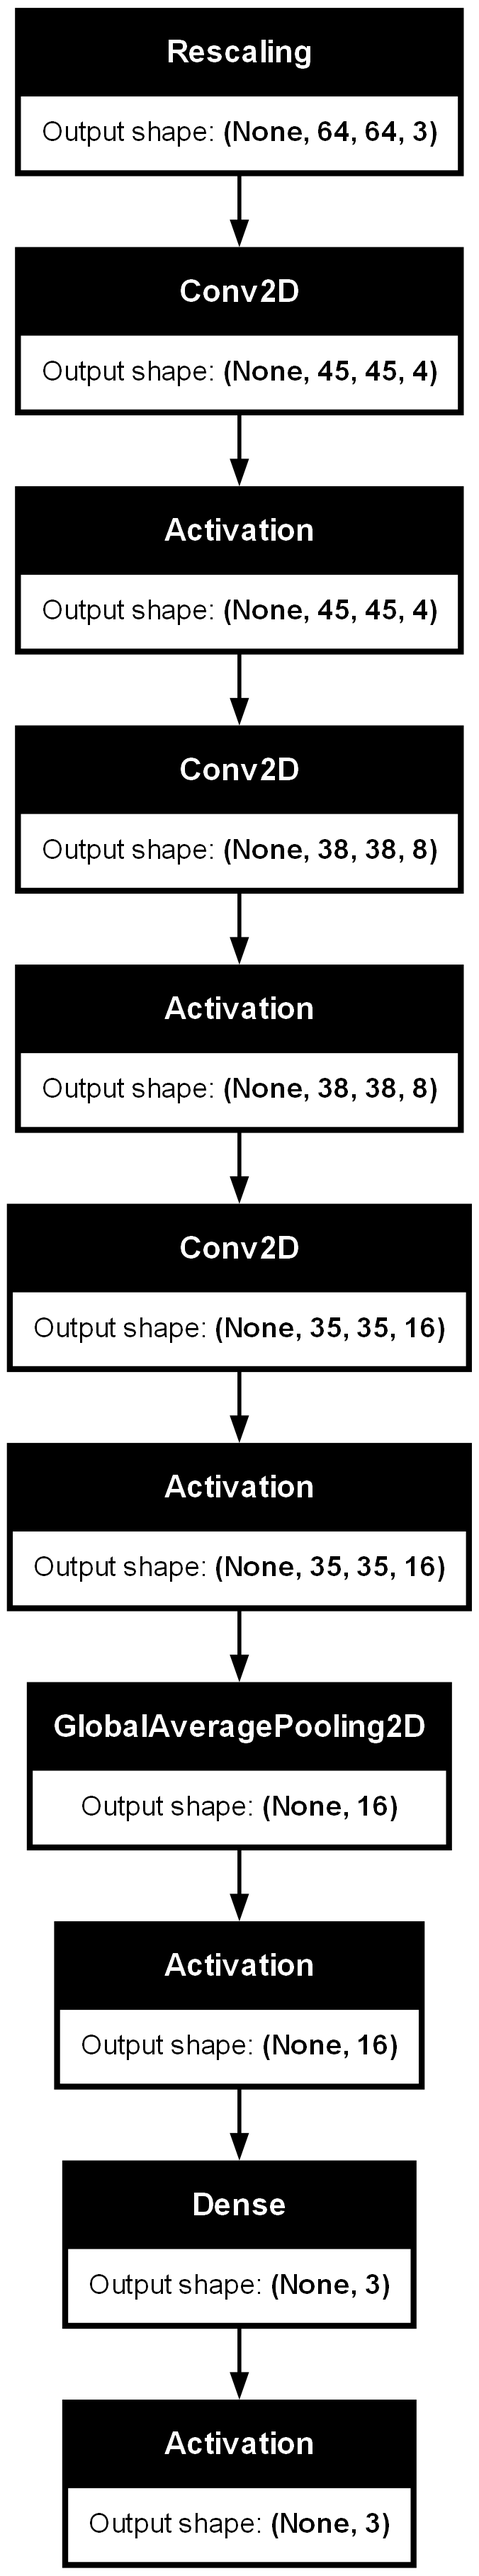
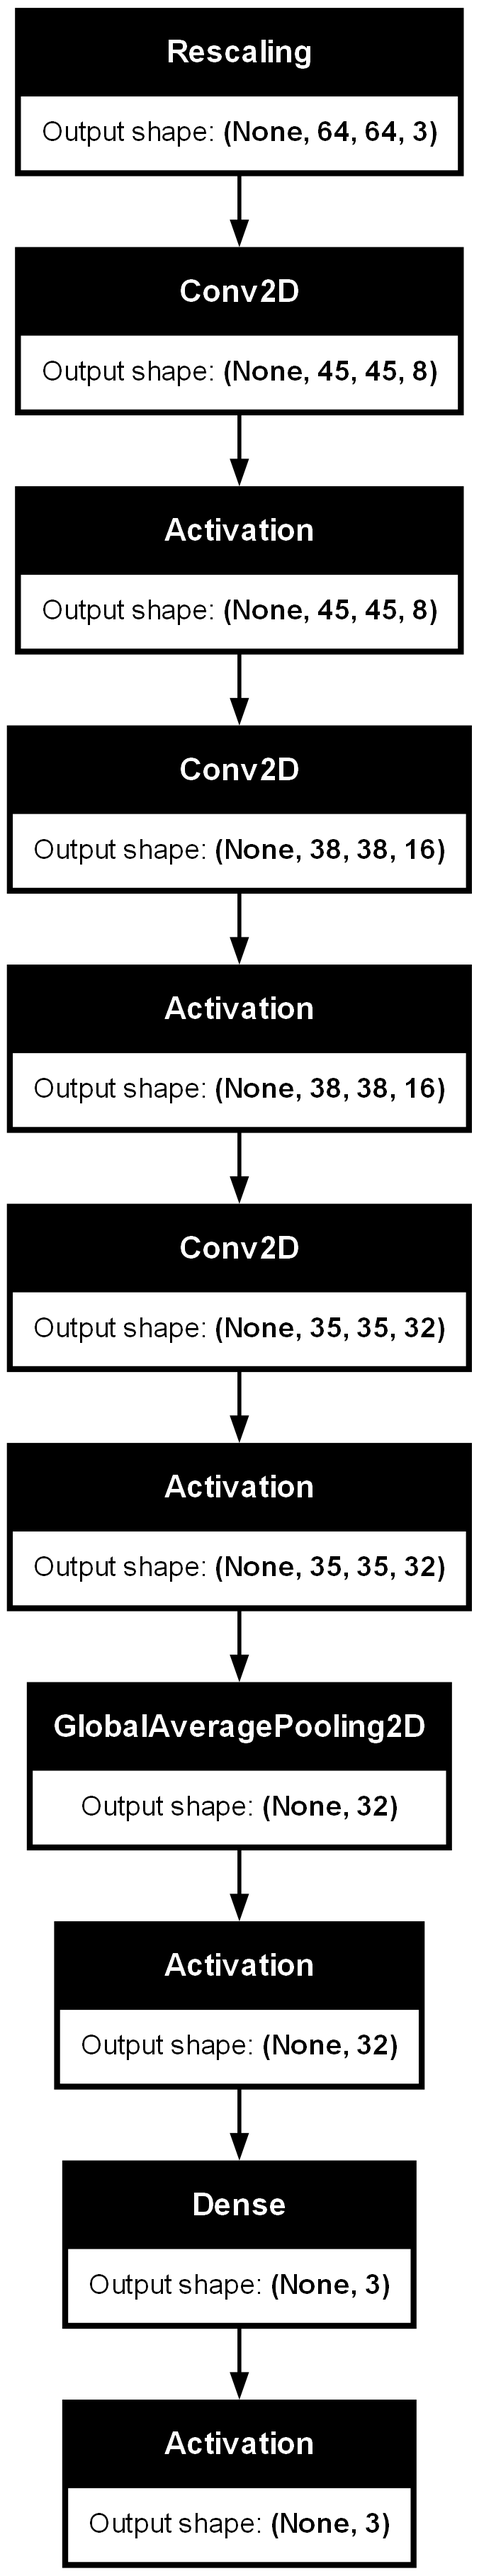
To continue

diff --git a/HairPrediction.py b/HairPrediction.py
@@ -48,6 +48,17 @@ val_ds = tf.keras.preprocessing.image_dataset_from_directory(
     label_mode='categorical'
 )
 
+test_ds = tf.keras.preprocessing.image_dataset_from_directory(
+    "hair_types/",
+    validation_split=0.2,
+    subset="validation",
+    seed=1337,
+    image_size=image_size,
+    batch_size=batch_size, 
+    labels='inferred',
+    label_mode='categorical'
+)
+
 
 print(train_ds.class_names)
 
@@ -62,17 +73,17 @@ model = Sequential()
 model.add(keras.Input(shape=image_size + (3,))) # 64, 64, 3
 model.add(layers.Rescaling(1.0 / 255))
 
-model.add(layers.Conv2D(filters=4, kernel_size=20, strides=1, padding='valid', dilation_rate=1))
+model.add(layers.Conv2D(filters=8, kernel_size=20, strides=1, padding='valid', dilation_rate=1))
 model.add(layers.Activation("relu"))
-# layers.MaxPool2D(pool_size=(2, 2))
+layers.MaxPool2D(pool_size=(2, 2))
 
-model.add(layers.Conv2D(filters=8, kernel_size=8, strides=1, padding='valid', dilation_rate=1))
+model.add(layers.Conv2D(filters=16, kernel_size=8, strides=1, padding='valid', dilation_rate=1))
 model.add(layers.Activation("relu"))
-# layers.MaxPool2D(pool_size=(2, 2))
+layers.MaxPool2D(pool_size=(2, 2))
 
-model.add(layers.Conv2D(filters=16, kernel_size=4, strides=1, padding='valid', dilation_rate=1))
+model.add(layers.Conv2D(filters=32, kernel_size=4, strides=1, padding='valid', dilation_rate=1))
 model.add(layers.Activation("relu"))
-# layers.MaxPool2D(pool_size=(2, 2))
+layers.MaxPool2D(pool_size=(2, 2))
 
 model.add(layers.GlobalAveragePooling2D())
 model.add(layers.Activation("relu"))
@@ -82,7 +93,8 @@ model.add(layers.Activation("softmax"))
 tf.keras.utils.plot_model(model, to_file='model_test.png', show_shapes=True)
 
 # epochs = 1
-epochs = 50
+# epochs = 50
+epochs = 25
 
 model.compile(
     optimizer=keras.optimizers.Adam(1e-3),
@@ -108,7 +120,7 @@ import numpy as np
 from sklearn.metrics import precision_score, recall_score, f1_score, accuracy_score
 
 # Make predictions on the validation data
-predictions = model.predict(val_ds)
+predictions = model.predict(test_ds)
 y_true = np.concatenate([y for x, y in val_ds], axis=0)
 
 # Convert one-hot encoded labels to integer labels

diff --git a/ForDocument.md b/ForDocument.md
@@ -1,5 +1,8 @@
 # For the Document
 
+## Notes 
+- When the model focuses on 1 or two classification it is an indication of overfitting
+
 ### Made an algorithm where it tests the prediction and computes the total accuracy and precision
 - Measured the accuracy, precision, recall, and F1
 
@@ -27,7 +30,7 @@ F1 Score: 0.12749003984063745
 Reason: 
  your neural network may overfit, meaning that it will memorize the training data and lose its ability to generalize to new and unseen data
 
-Understanding: 
+Understanding: Theres too many passes that it concatinates too much information confusing the model on which specific infromation to look for
 
 ### Epochs change with MaxPool2D
 
@@ -43,6 +46,34 @@ Precision: 0.29926890296348424
 Recall: 0.30612244897959184
 F1 Score: 0.29962980448207066
 
+25 Epochs
+
+Accuracy: 0.34183673469387754
+Precision: 0.3038265306122449
+Recall: 0.34183673469387754
+F1 Score: 0.26397687531978414
+
+Accuracy: 0.35714285714285715
+Precision: 0.23524145133548388
+Recall: 0.35714285714285715
+F1 Score: 0.277020172230742
+
+10 Epochs
+Accuracy: 0.2857142857142857
+Precision: 0.08163265306122448
+Recall: 0.2857142857142857
+F1 Score: 0.12698412698412698
+
+Accuracy: 0.34183673469387754
+Precision: 0.22390749489424014
+Recall: 0.34183673469387754
+F1 Score: 0.269533527696793'
+
+Concluded that when applying max pooling Reduce the epochs to 25 and apply MaxPool 
+
+Reason: Max pool layer gets the largest value in the kernel. When the kernel passes through the whole image it retains the shape and intensity of the expanded resolution on a smaller value. Too much training could lead to overfitting 
+
+Understanding: Balance out the number of epochs and MaxPooling since it could lead to overfitting. Too many passes the model could just foocus specifically on the retained patterns of the image.  
 
 ### Also made a manual for loop for each image to observe how does the model predicts correctly and incorrectly
 - This can be inaccurate with the initial metrics applied in the model 
@@ -54,9 +85,46 @@ Precision: 0.08163265306122448
 Recall: 0.2857142857142857
 F1 Score: 0.12698412698412698
 
-Reason: Greater filters meaning more channels depth taht could lead to the reduciton of spatial resolution 
-
-Understanding:
+Understanding: Greater filters meaning more channels depth taht could lead to the reduciton of spatial resolution 
 
 
+### Doubled the filter in each later without MaxPooling2D
+Accuracy: 0.3469387755102041
+Precision: 0.37381153275421436
+Recall: 0.3469387755102041
+F1 Score: 0.29374854626144964
 
+
+Accuracy: 0.39285714285714285
+Precision: 0.4140007354293069
+Recall: 0.39285714285714285
+F1 Score: 0.3517386808203135
+
+### Doubled the filter in each layer with MaxPooling 2D
+Accuracy: 0.34183673469387754
+Precision: 0.3052596038415366
+Recall: 0.34183673469387754
+F1 Score: 0.2678772322905736
+
+Accuracy: 0.4030612244897959
+Precision: 0.4227268090763116
+Recall: 0.4030612244897959
+F1 Score: 0.4061858697265813
+
+Reason: MaxPooling compliments the increase of filters because it maintains the strucgture and the important features through getting the max value of every kernel. With more features obtained therefore more accuracy 
+
+**Same setup but with 30 epochs**
+Accuracy: 0.2857142857142857
+Precision: 0.08163265306122448
+Recall: 0.2857142857142857
+F1 Score: 0.12698412698412698
+
+**Same setup but with 23 epochs**
+
+Accuracy: 0.3622448979591837
+Precision: 0.36115362811791385
+Recall: 0.3622448979591837
+F1 Score: 0.35983576100385
+
+
+# Made a new dataset but suddenly the accuracy drops 
